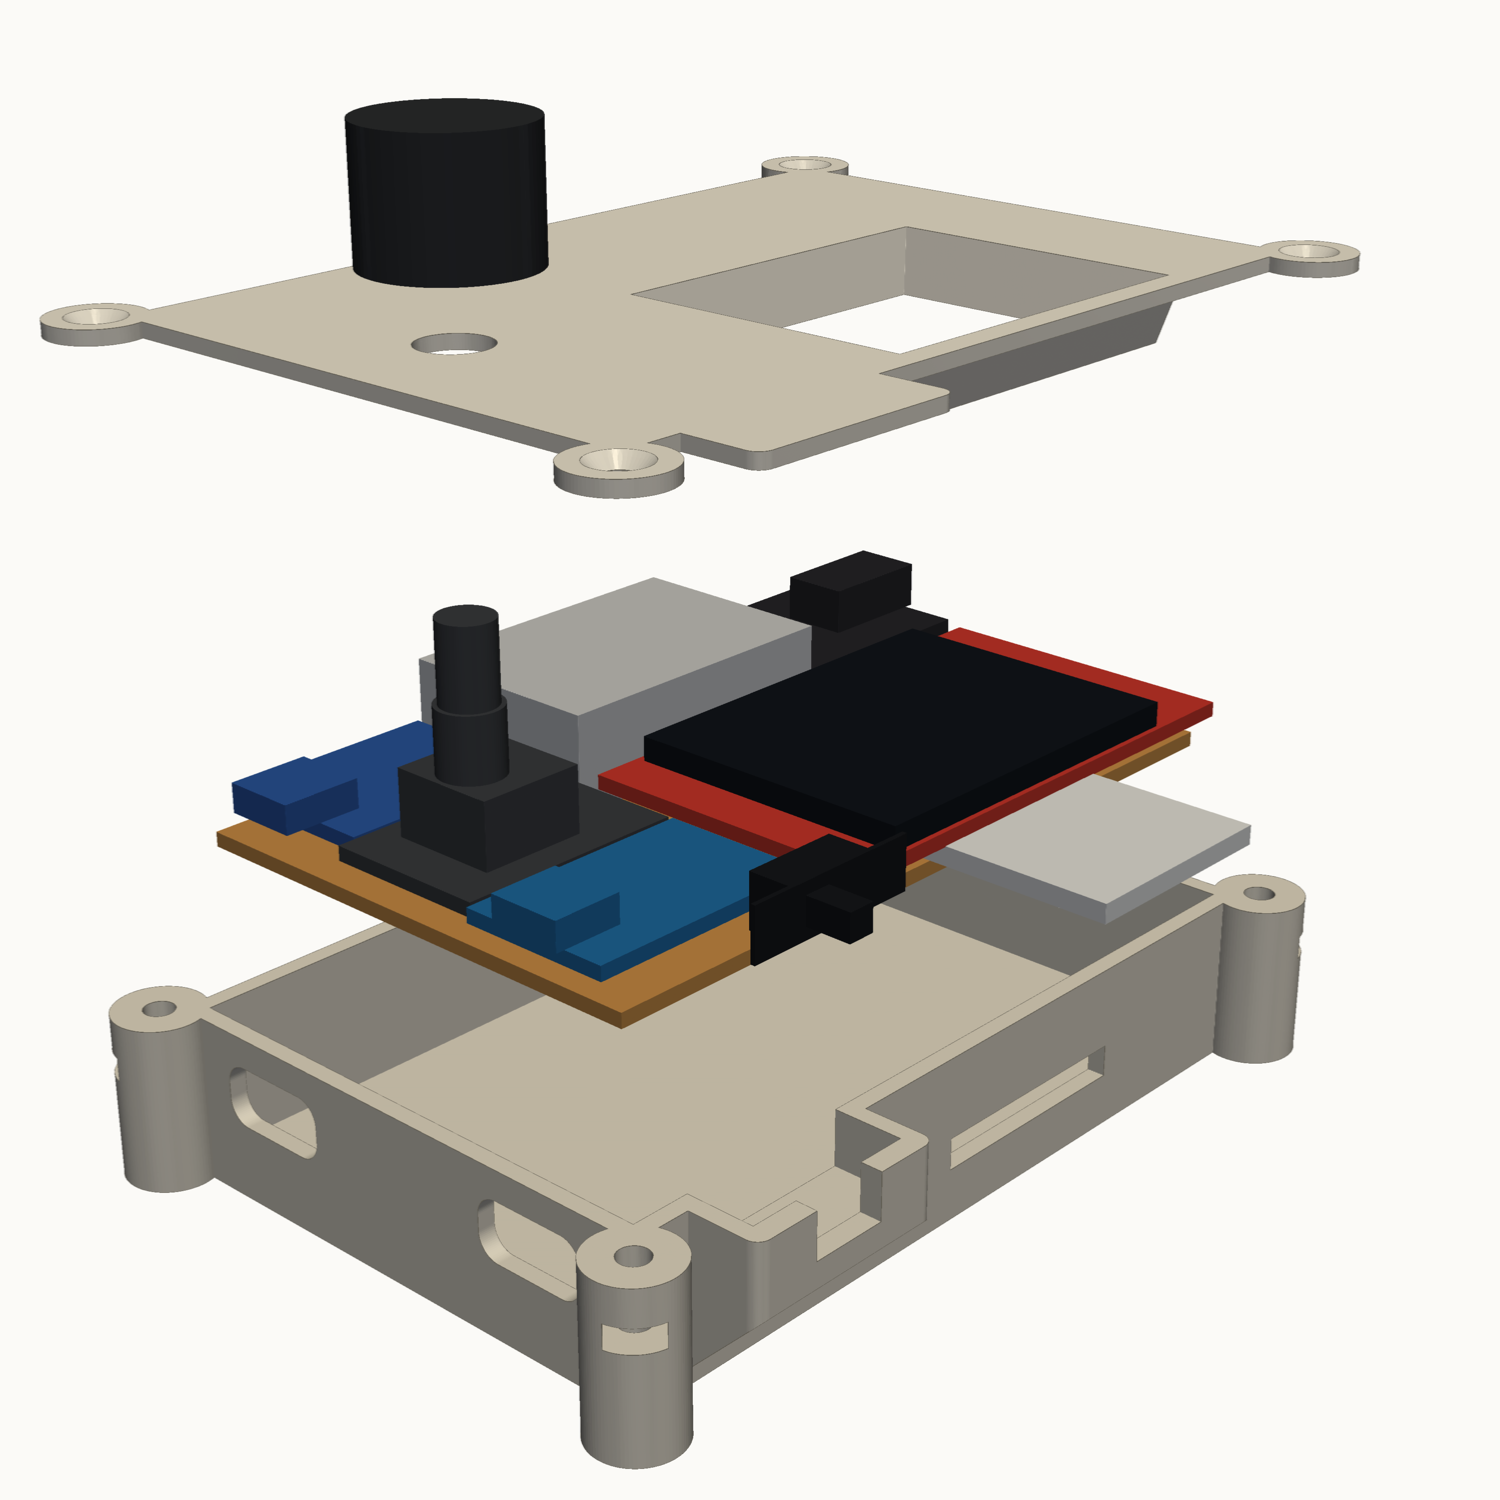
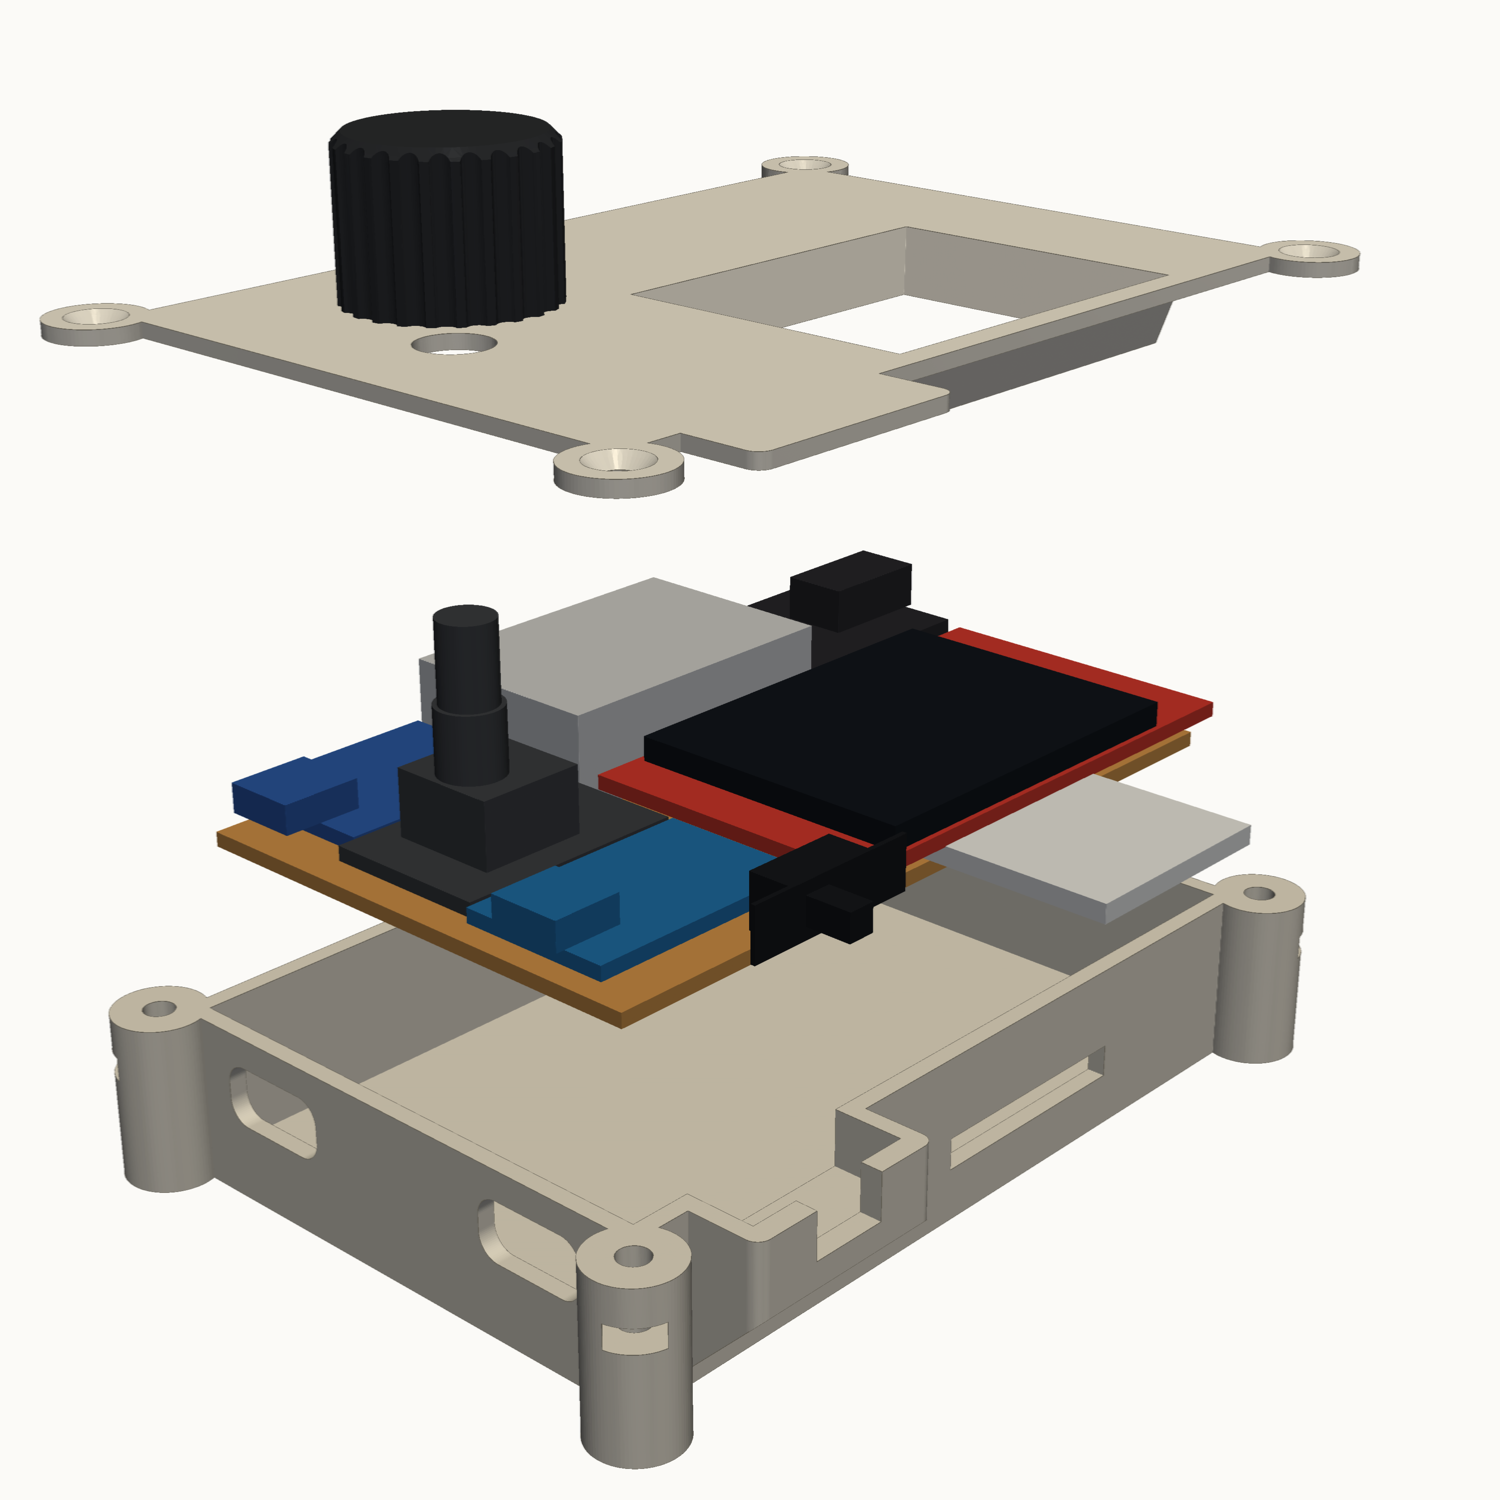
Case: push-fit knob, 10 mm radius, for the encoder's D-shaft
Shaft and bush sizes are the standard KY-040 figures, not yet measured.

Changed region(s): [[0.2147, 0.0613, 0.3987, 0.2453]]

diff --git a/hardware/case/paata_case.py b/hardware/case/paata_case.py
@@ -157,8 +157,28 @@ def dummies():
     }
 
 
+KNOB_R, KNOB_H = 10.0, 15.0           # owner asked for a 10 mm radius
+SHAFT_D, SHAFT_FLAT, SHAFT_TOP = 6.0, 4.5, ENC_BODY_Z + 20.0   # standard KY-040 D-shaft, not measured on this part
+BUSH_D, BUSH_H = 7.0, 7.0             # threaded bush, also the standard figures
+KNOB_BORE = 13.5                      # from the knob's underside to where the shaft end stops
+
+
+def knob_part():
+    """Knob with its underside at z = 0. Pushes on to the D-shaft; a recess clears the bush."""
+    k = Pos(0, 0, KNOB_H / 2) * Cylinder(KNOB_R, KNOB_H)
+    k = chamfer(k.edges().group_by(Axis.Z)[-1], 1.0)
+    for i in range(24):                                                   # finger grooves
+        k -= Rot(0, 0, i * 15) * Pos(KNOB_R + 0.4, 0, KNOB_H / 2) * Cylinder(1.0, KNOB_H + 2)
+    r = SHAFT_D / 2 + 0.1
+    bore = Pos(0, 0, KNOB_BORE / 2) * Cylinder(r, KNOB_BORE)
+    bore -= Pos(SHAFT_FLAT + 0.2 - r + 5, 0, KNOB_BORE / 2) * Box(10, 10, KNOB_BORE + 1)   # the flat
+    k -= bore
+    k -= Pos(0, 0, 1.75) * Cylinder(BUSH_D / 2 + 1.0, 3.5)                # clears the bush above the lid
+    return k
+
+
 def knob():
-    return Pos(ENC_X, ENC_Y, ZTOP + LID + 6.5 + 7) * Cylinder(8.5, 13)
+    return Pos(ENC_X, ENC_Y, SHAFT_TOP - KNOB_BORE) * knob_part()
 
 
 def render():
@@ -209,6 +229,8 @@ if __name__ == "__main__":
     for name, part in zip(("test-usb-end.stl", "test-jack-end.stl"), test_ends()):
         export_stl(part, str(OUT / name), tolerance=0.02)
     export_stl(Rot(180, 0, 0) * lid(), str(OUT / "lid.stl"), tolerance=0.02)      # print orientation: outside face on the bed
+    export_stl(Rot(180, 0, 0) * knob_part(), str(OUT / "knob.stl"), tolerance=0.01)   # prints top face down, bore open upwards
+    print("knob underside is", round(SHAFT_TOP - KNOB_BORE - ZTOP - LID, 1), "mm above the lid")
     bb, lb = base().bounding_box(), lid().bounding_box()
     print("base", [round(v, 1) for v in (bb.size.X, bb.size.Y, bb.size.Z)], "lid", [round(v, 1) for v in (lb.size.X, lb.size.Y, lb.size.Z)])
     render()

diff --git a/.claude/CLAUDE.md b/.claude/CLAUDE.md
@@ -169,6 +169,10 @@ Board is built and wired (2026-11-15). Owner's caliper readings of the finished 
   Lid plate is 1.5 mm thick (was 2.0; owner, 2026-11-16) so that a clear filament shows
   the charger and ESP32 lights; case is 20.0 tall. `hardware/case/transparency_coupons.py`
   makes 2.0 / 1.5 / 1.0 mm test plates for judging a clear filament.
+  Knob (2026-11-16): `knob.stl`, 10 mm radius (owner's figure), 15 tall, push fit on the
+  D-shaft, printed top face down. Shaft and bush sizes in the model are the standard
+  KY-040 figures (6 mm shaft, 4.5 across the flat, 20 above the body, 7 mm bush), not
+  measured; first print not yet tried on the encoder.
   Support-free printing (2026-11-15): base prints floor down, lid prints outside face down
   (`lid.stl` is exported in that orientation). Pod underside is a real 45° slope (it was
   missing from the model before), slider slot is open to the top, jack hole has a 45°
